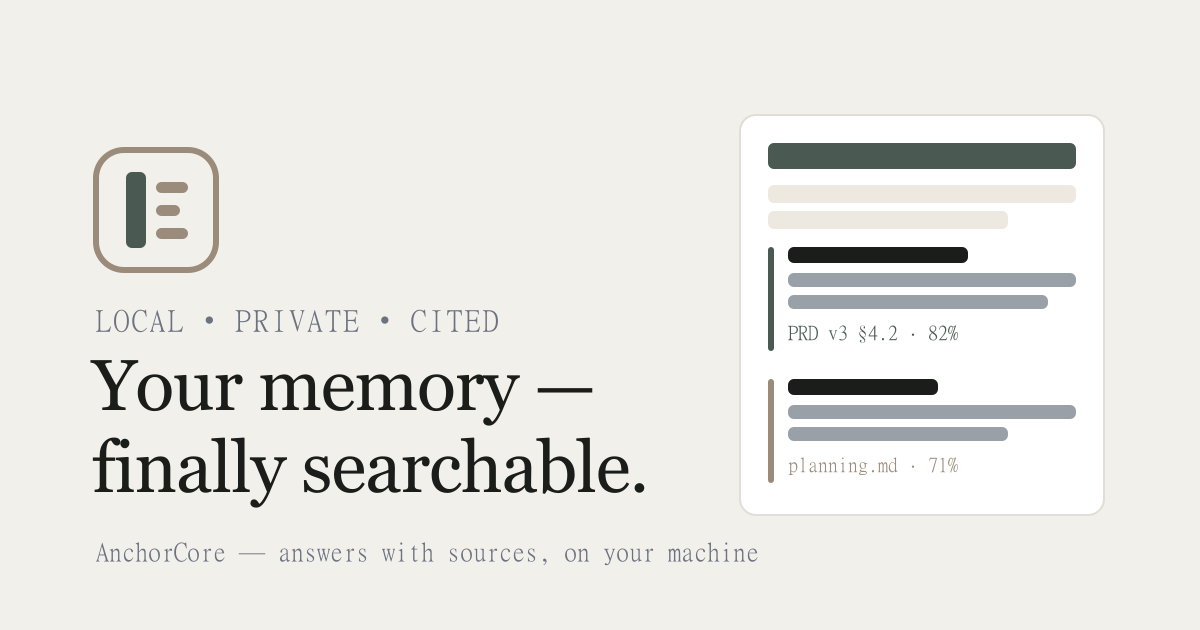
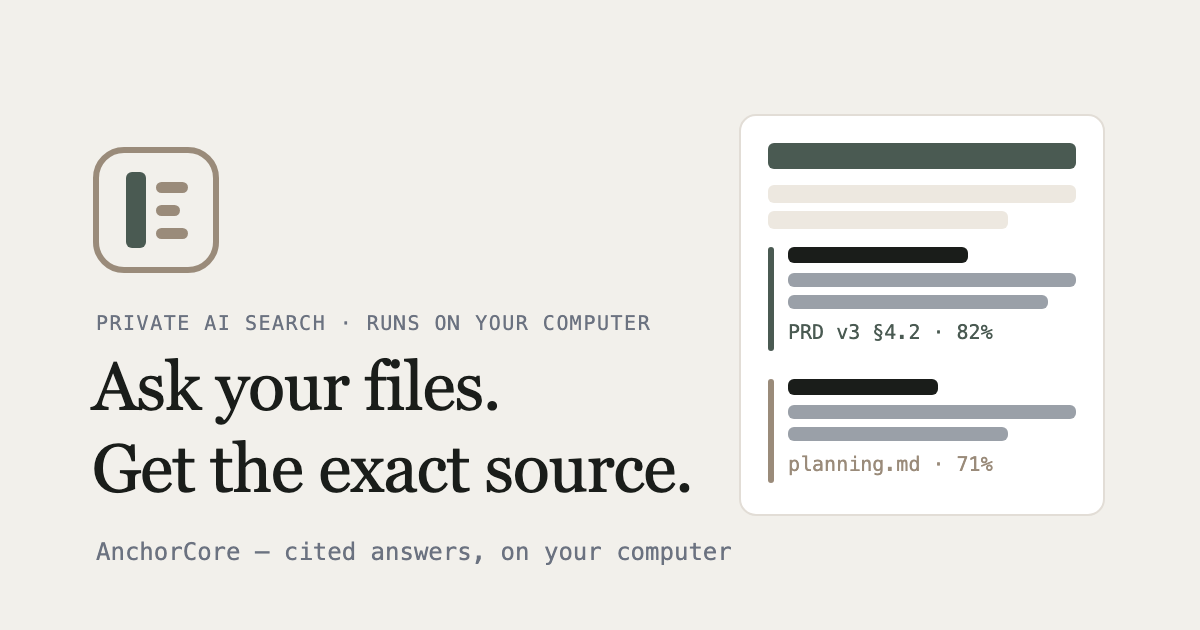
Website: build-time JSON-LD and social tags (R44.18)
Generate FAQPage from the visible FAQ and SoftwareApplication (Linux, softwareVersion
from Cargo.toml, downloadUrl, publisher, screenshot) in the anchorcore-seo Vite
plugin; fail build on empty/mismatched FAQ. Add missing og/twitter tags to every
page. Refresh og-card.png from the R44.9 SVG (text no longer clipped).

diff --git a/website/scripts/seo.ts b/website/scripts/seo.ts
@@ -1,0 +1,146 @@
+import type { Plugin } from "vite";
+import { readFileSync } from "node:fs";
+
+// R44.18: JSON-LD + social tags generated at build from each page's own visible
+// content, so structured data cannot drift from what people (and crawlers) read.
+// Dependency-free: the HTML we parse is our own hand-written markup.
+
+const ORIGIN = "https://anchorcore.dev";
+const OG_IMAGE = `${ORIGIN}/og-card.png`;
+const OG_ALT = "AnchorCore: private AI search. Ask your files, get the exact source.";
+const RELEASES = "https://github.com/Atsirkunov/anchorcore/releases";
+const CARGO = new URL("../../rust/Cargo.toml", import.meta.url);
+
+const ENTITIES: Record<string, string> = { amp: "&", lt: "<", gt: ">", quot: '"', apos: "'", nbsp: " " };
+
+export function decode(s: string): string {
+  return s.replace(/&(#x[0-9a-f]+|#\d+|[a-z]+);/gi, (m, e: string) => {
+    if (e[0] === "#") {
+      const n = e[1] === "x" || e[1] === "X" ? parseInt(e.slice(2), 16) : parseInt(e.slice(1), 10);
+      return String.fromCodePoint(n);
+    }
+    return ENTITIES[e.toLowerCase()] ?? m;
+  });
+}
+
+export const text = (html: string): string => decode(html.replace(/<[^>]*>/g, "")).replace(/\s+/g, " ").trim();
+
+export function extractFaq(html: string): { q: string; a: string }[] {
+  const section = html.match(/<section id="faq">[\s\S]*?<\/section>/)?.[0] ?? "";
+  return [...section.matchAll(/<div class="qa"><h3>([\s\S]*?)<\/h3><p>([\s\S]*?)<\/p><\/div>/g)].map((m) => ({
+    q: text(m[1]),
+    a: text(m[2]),
+  }));
+}
+
+function cargoVersion(): string | undefined {
+  try {
+    const toml = readFileSync(CARGO, "utf8");
+    const sec = toml.match(/\[workspace\.package\]([\s\S]*?)(?:\n\[|$)/)?.[1] ?? "";
+    return sec.match(/^\s*version\s*=\s*"([^"]+)"/m)?.[1];
+  } catch {
+    return undefined;
+  }
+}
+
+const ldScript = (obj: unknown) =>
+  `<script type="application/ld+json">${JSON.stringify(obj).replace(/</g, "\\u003c")}</script>`;
+
+const attr = (s: string) => s.replace(/&/g, "&amp;").replace(/"/g, "&quot;").replace(/</g, "&lt;");
+const has = (html: string, key: string) => new RegExp(`<meta[^>]+(?:property|name)="${key}"`).test(html);
+const meta = (html: string, name: string) => decode(html.match(new RegExp(`<meta name="${name}" content="([^"]*)"`))?.[1] ?? "");
+
+/** Social tags every page must carry; only missing ones are added, hand/guide-written ones win. */
+function socialTags(html: string): string {
+  const title = decode(html.match(/<title>([\s\S]*?)<\/title>/)?.[1] ?? "").trim();
+  const desc = meta(html, "description");
+  const canonical = html.match(/<link rel="canonical" href="([^"]+)"/)?.[1];
+  if (!title || !desc || !canonical) throw new Error(`anchorcore-seo: page lacks <title>, description or canonical`);
+  const want: [string, string, string][] = [
+    ["property", "og:type", "website"],
+    ["property", "og:site_name", "AnchorCore"],
+    ["property", "og:title", title],
+    ["property", "og:description", desc],
+    ["property", "og:url", canonical],
+    ["property", "og:image", OG_IMAGE],
+    ["property", "og:image:width", "1200"],
+    ["property", "og:image:height", "630"],
+    ["property", "og:image:alt", OG_ALT],
+    ["name", "twitter:card", "summary_large_image"],
+    ["name", "twitter:title", title],
+    ["name", "twitter:description", desc],
+    ["name", "twitter:image", OG_IMAGE],
+    ["name", "twitter:image:alt", OG_ALT],
+  ];
+  return want
+    .filter(([, k]) => !has(html, k))
+    .map(([t, k, v]) => `<meta ${t}="${k}" content="${attr(v)}" />`)
+    .join("\n  ");
+}
+
+function landingJsonLd(html: string, warn: (m: string) => void): string[] {
+  const faq = extractFaq(html);
+  const visible = (html.match(/<div class="qa">/g) ?? []).length;
+  if (faq.length === 0 || faq.length !== visible || faq.some((e) => !e.q || !e.a)) {
+    throw new Error(`anchorcore-seo: FAQ extraction failed (${faq.length} parsed, ${visible} visible, empty entries not allowed)`);
+  }
+  const version = cargoVersion();
+  if (!version) warn("rust/Cargo.toml workspace.package.version unreadable: softwareVersion omitted from JSON-LD");
+  const app = {
+    "@context": "https://schema.org",
+    "@type": "SoftwareApplication",
+    name: "AnchorCore",
+    applicationCategory: "BusinessApplication",
+    operatingSystem: "macOS, Windows, Linux",
+    description: meta(html, "description"),
+    ...(version ? { softwareVersion: version } : {}),
+    downloadUrl: RELEASES,
+    url: `${ORIGIN}/`,
+    screenshot: OG_IMAGE,
+    publisher: {
+      "@type": "Person",
+      name: "Aleksandr Tsirkunov",
+      sameAs: "https://ee.linkedin.com/in/a-tsirkunov",
+    },
+    // free personal app only: Team is quote-based and has no machine-readable offer
+    offers: { "@type": "Offer", price: "0", priceCurrency: "USD" },
+  };
+  const faqLd = {
+    "@context": "https://schema.org",
+    "@type": "FAQPage",
+    mainEntity: faq.map((e) => ({
+      "@type": "Question",
+      name: e.q,
+      acceptedAnswer: { "@type": "Answer", text: e.a },
+    })),
+  };
+  return [ldScript(app), ldScript(faqLd)];
+}
+
+/** Re-read the emitted FAQPage and assert it equals the visible markup. */
+function verifyFaq(html: string): void {
+  const blocks = [...html.matchAll(/<script type="application\/ld\+json">([\s\S]*?)<\/script>/g)].map((m) => JSON.parse(m[1]));
+  const ld = blocks.find((b) => b["@type"] === "FAQPage");
+  const visible = extractFaq(html);
+  const got = (ld?.mainEntity ?? []).map((e: { name: string; acceptedAnswer: { text: string } }) => ({ q: e.name, a: e.acceptedAnswer.text }));
+  if (!ld || got.length === 0 || JSON.stringify(got) !== JSON.stringify(visible)) {
+    throw new Error("anchorcore-seo: FAQPage JSON-LD does not match the visible FAQ");
+  }
+}
+
+export function seo(): Plugin {
+  return {
+    name: "anchorcore-seo",
+    transformIndexHtml: {
+      order: "post",
+      handler(html, ctx) {
+        const isLanding = ctx.path === "/index.html";
+        const tags = [socialTags(html)];
+        if (isLanding) tags.push(...landingJsonLd(html, (m) => console.warn(`\n[anchorcore-seo] WARNING: ${m}`)));
+        const out = html.replace("</head>", `  ${tags.filter(Boolean).join("\n  ")}\n</head>`);
+        if (isLanding) verifyFaq(out);
+        return out;
+      },
+    },
+  };
+}

diff --git a/website/index.html b/website/index.html
@@ -8,18 +8,7 @@
   <link rel="icon" href="/favicon.svg" type="image/svg+xml" />
   <meta property="og:title" content="AnchorCore — Private AI Search with Cited Answers" />
   <meta property="og:description" content="A private AI search app. Ask your folders, Drive, Jira and Linear in plain language — get the answer and the exact source. Runs on your computer." />
-  <script type="application/ld+json">
-  {"@context":"https://schema.org","@type":"SoftwareApplication","name":"AnchorCore","applicationCategory":"BusinessApplication","operatingSystem":["macOS","Windows","Linux"],"description":"Private AI search app: ask your folders, Drive, Jira, Linear or any JSON API in plain language and get a cited answer. Local-first, runs on your computer.","offers":{"@type":"Offer","price":"0","priceCurrency":"USD"},"featureList":"private AI search, cited answers, local-first document search, Jira integration, Linear integration, Google Drive integration, source labels, model allowlist, MCP server"}
-  </script>
-  <script type="application/ld+json">
-  {"@context":"https://schema.org","@type":"FAQPage","mainEntity":[
-    {"@type":"Question","name":"Is my data private?","acceptedAnswer":{"@type":"Answer","text":"Yes. AnchorCore runs on your own machine, stores data locally, and keeps secrets in your OS keychain (macOS, Windows) or, where none is available, an encrypted file in your data folder. Sensitive sources are never sent to cloud AI you have not approved."}},
-    {"@type":"Question","name":"How is this different from NotebookLM or ChatGPT file search?","acceptedAnswer":{"@type":"Answer","text":"Those are cloud-only uploads. AnchorCore is local-first and self-hostable, connects to folders, Drive, Jira and Linear directly, and gates sensitive sources per your model policy."}},
-    {"@type":"Question","name":"Do I need Ollama?","acceptedAnswer":{"@type":"Answer","text":"No. Full-text search works without it. Add Ollama for AI answers with citations."}},
-    {"@type":"Question","name":"Is it free?","acceptedAnswer":{"@type":"Answer","text":"Yes, the personal local app is free. Team self-hosted is quote-based: see anchorcore.dev/team. Hosted is coming soon."}},
-    {"@type":"Question","name":"Can I check the code myself?","acceptedAnswer":{"@type":"Answer","text":"Yes. AnchorCore is source-available: the repository is public, so you can read what the app does (no telemetry; it only contacts the endpoints you configure) and build it yourself. Personal use is free; team and commercial use require a separate license."}},{"@type":"Question","name":"Can I move to a new computer?","acceptedAnswer":{"@type":"Answer","text":"Yes. System → Backup & restore exports your whole index into one portable .anchorcore-backup file; import it on the new machine with a dry-run preview first. Credentials stay behind unless you opt into the passphrase-encrypted bundle."}}
-  ]}
-  </script>
+  <!-- JSON-LD (SoftwareApplication + FAQPage) is generated at build by the anchorcore-seo plugin in vite.config.ts from this page's visible content; do not hand-write it. -->
   <meta property="og:type" content="website" />
   <meta property="og:url" content="https://anchorcore.dev/" />
   <meta property="og:image" content="https://anchorcore.dev/og-card.png" />

diff --git a/website/vite.config.ts b/website/vite.config.ts
@@ -1,5 +1,6 @@
 import { defineConfig, type Plugin } from "vite";
 import { readFileSync } from "node:fs";
+import { seo } from "./scripts/seo";
 
 // Guides are prerendered by scripts/build-guides.mjs into guides/<slug>.html (R44.15);
 // the same list drives the Vite entries and the sitemap, so they cannot drift.
@@ -23,7 +24,7 @@ function sitemap(): Plugin {
 }
 
 export default defineConfig({
-  plugins: [sitemap()],
+  plugins: [sitemap(), seo()],
   server: { port: 5174 },
   build: {
     outDir: "dist",

diff --git a/website/README.md b/website/README.md
@@ -49,7 +49,16 @@ Guides are static pages rendered at build time from the repo docs, so crawlers w
 ## Social / brand assets (R16.5)
 
 * `public/favicon.svg` is the source of truth for the citation-bar mark (tab icon, header, footer, `frontend/public/` copy). SVG favicons work natively — no PNG needed.
-* `public/og-card.svg` backs the `og:image` / `twitter:image` tags. Strict crawlers (X, iMessage) want PNG: export once per deploy with `rsvg-convert -w 1200 public/og-card.svg -o public/og-card.png` and point the tags at the absolute deploy URL (`og:image` must be absolute — live at `https://anchorcore.dev/og-card.png`).
+* `public/og-card.svg` is the source for `public/og-card.png` (1200x630, what `og:image`/`twitter:image` point at, absolute URL `https://anchorcore.dev/og-card.png`). Regenerate the PNG whenever the SVG copy changes, e.g. with headless Chrome (no extra deps): `"/Applications/Google Chrome.app/Contents/MacOS/Google Chrome" --headless=new --hide-scrollbars --window-size=1200,630 --screenshot=public/og-card.png file://$PWD/public/og-card.svg`, or `rsvg-convert -w 1200 public/og-card.svg -o public/og-card.png`. Check the text is not clipped by the card.
+
+## Structured data + social tags (R44.18)
+
+`scripts/seo.ts` (the `anchorcore-seo` Vite plugin, `transformIndexHtml`, runs on every page) generates these at build so they cannot drift:
+
+* **JSON-LD (landing only):** `FAQPage` is built from the visible `#faq` markup (`h3` = question, `p` = answer, tags stripped, entities decoded). Do not hand-write it; edit the visible FAQ. The build fails if the FAQ parses to zero entries, if parsed count differs from the number of `.qa` blocks, or if the emitted JSON-LD text differs from the visible text. `SoftwareApplication` takes `description` from the page meta description, `softwareVersion` from `rust/Cargo.toml` `workspace.package.version` (unreadable: build warns and omits it), `downloadUrl` = the releases URL of the hero CTA, `screenshot` = the og image, publisher Person (owner-provided LinkedIn `sameAs`). Offer price `0` is the free personal app only; no Team/Hosted offers, no claims beyond the page. If the hero CTA URL changes, update `RELEASES` in `seo.ts`.
+* **Social tags (all pages):** the plugin adds any missing `og:site_name`, `og:title/description/url/type`, `og:image` (+ `width`/`height`/`alt`), `twitter:card=summary_large_image`, `twitter:title/description/image(+alt)` from each page's `<title>`, meta description and canonical (a page lacking one of those fails the build). Tags already written by hand or by `build-guides.mjs` win, so per-page titles live in one place (the page itself).
+* `?track=` is no longer written to the URL anywhere (only read by `redirectLegacyTrack`).
+* No Rich Results test is run in CI; validate manually after deploy at search.google.com/test/rich-results and validator.schema.org.
 
 ## Capture
 
